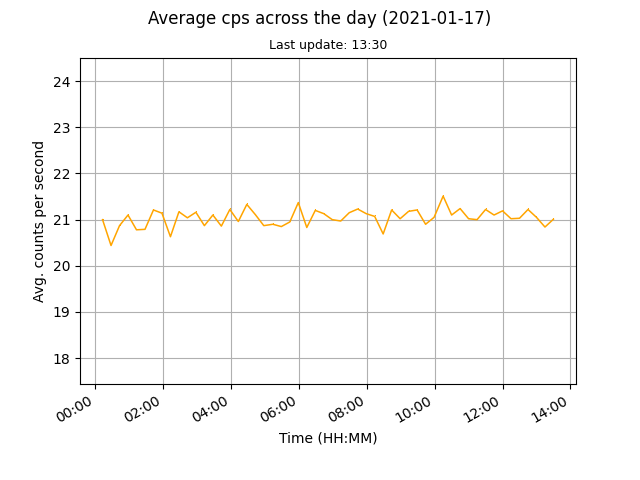
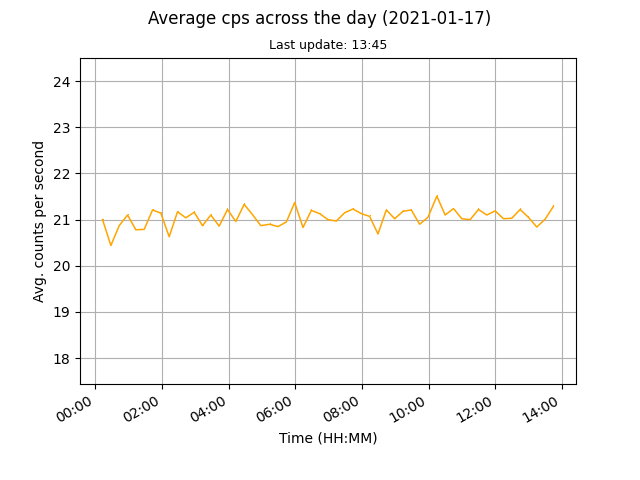
auto data update

diff --git a/docs/index.html b/docs/index.html
@@ -45,8 +45,8 @@
 	
 	<br>
 	
-	<p>Current counts per second (cps): 21.01</p>
-	<p>Last update: 2021-01-17, 13:30</p>
+	<p>Current counts per second (cps): 21.29</p>
+	<p>Last update: 2021-01-17, 13:45</p>
 
 	<p><a href="images/monthly.png"><img src="images/monthly.png" alt="Mothly avg cps data"></a><a href="images/daily.png"><img src="images/daily.png" alt="Daily avg cps data"></a></p>
 	
